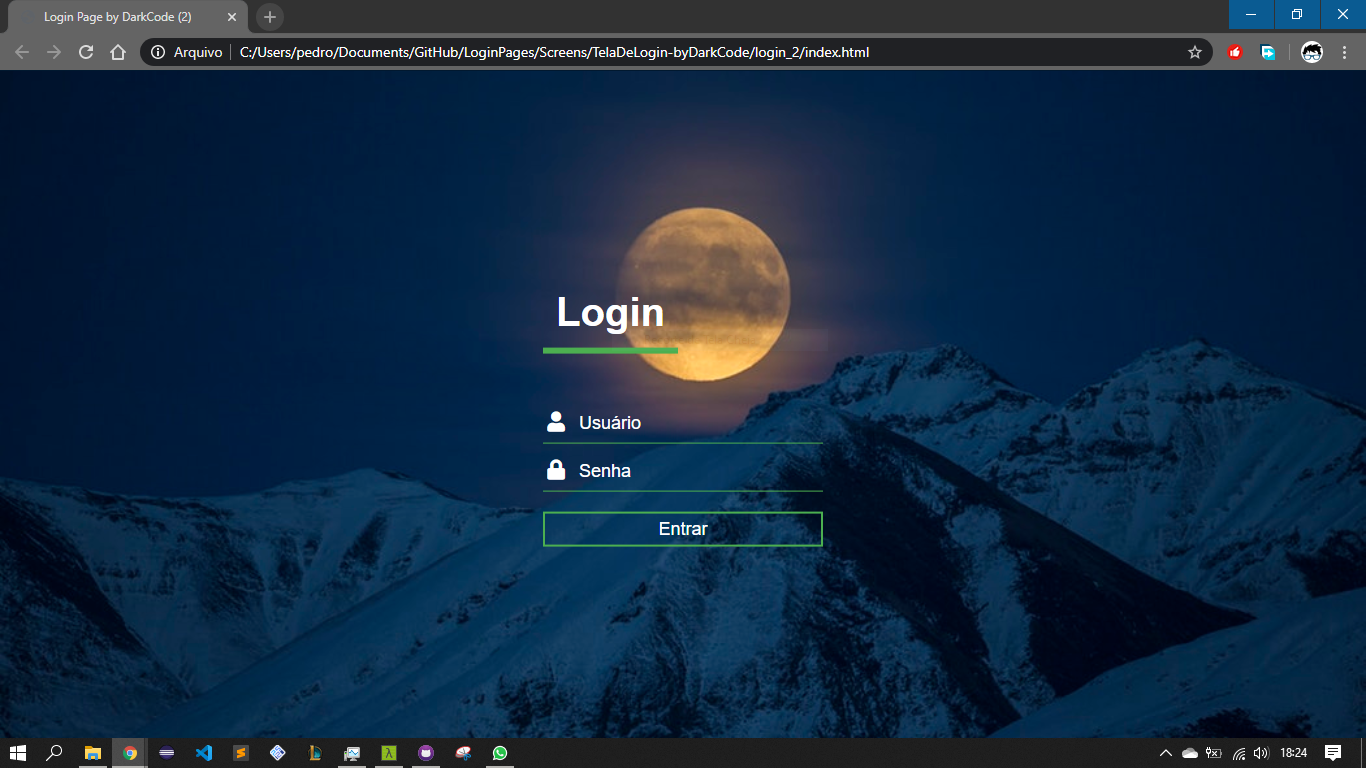
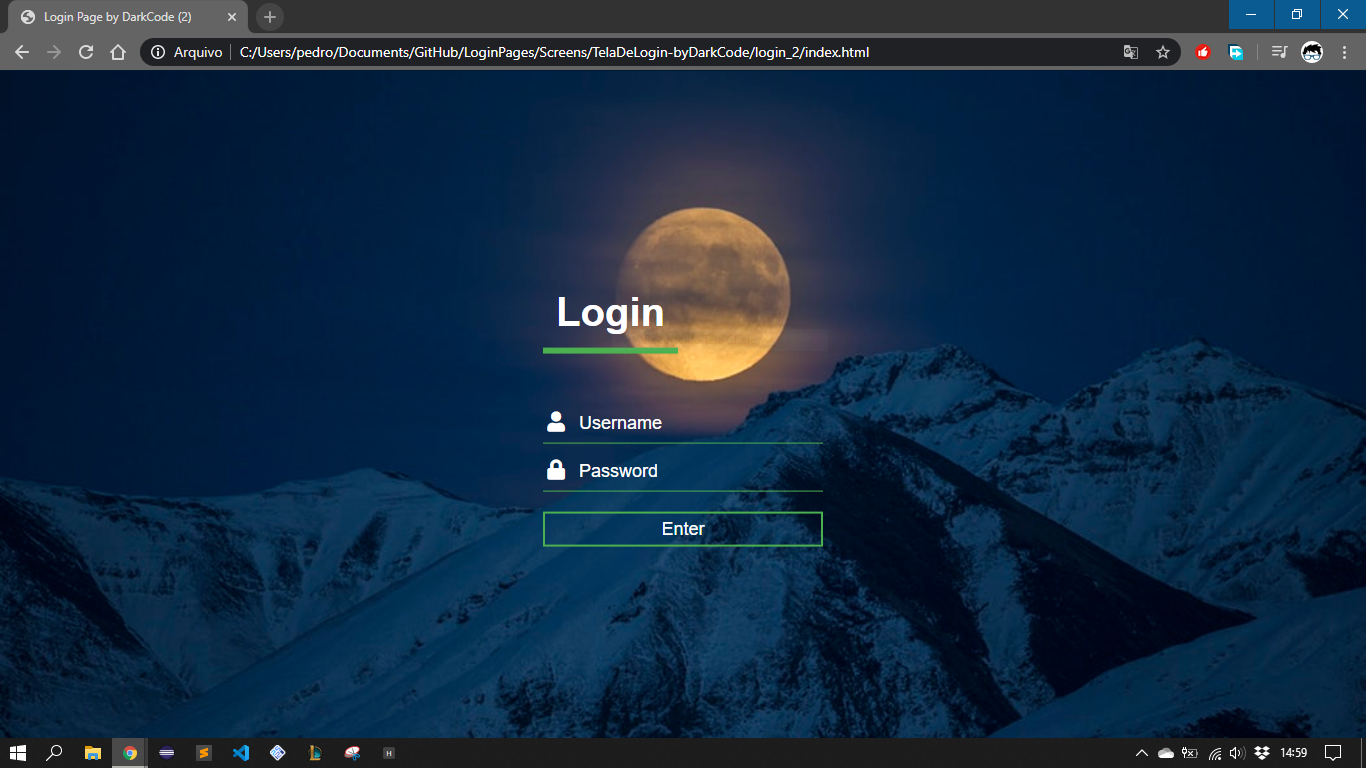
Updated all pages for English

diff --git a/Screens/telaDeLogin-byTrueCode/index.html b/Screens/telaDeLogin-byTrueCode/index.html
@@ -1,12 +1,12 @@
 <!DOCTYPE html>
-<html lang="pt">
+<html lang="en">
 <head>
     <meta charset="UTF-8">
     <meta name="viewport" content="width=device-width, initial-scale=1.0">
     <link rel="stylesheet" type="text/css" href="css/style.css">
     <link href="https://fonts.googleapis.com/css?family=Poppins:600&display=swap" rel="stylesheet">
     <script src="https://kit.fontawesome.com/a81368914c.js"></script>
-    <title>Fomulário de Login Animada</title>
+    <title>Animated Login Form</title>
 </head>
 <body>
     <img class="wave" src="img/wave.png">
@@ -17,13 +17,13 @@
         <div class="login-container">
             <form action="index.html">
                 <img class="avatar" src="img/avatar.svg">
-                <h2>Bem Vindo!</h2>
+                <h2>Welcome!</h2>
                 <div class="input-div one">
                     <div class="i">
                         <i class="fas fa-user"></i>
                     </div>
                     <div>
-                        <h5>Usuário</h5>
+                        <h5>Username</h5>
                         <input class="input" type="text">
                     </div>
                 </div>
@@ -32,11 +32,11 @@
                         <i class="fas fa-lock"></i>
                     </div>
                     <div>
-                        <h5>Senha</h5>
+                        <h5>Password</h5>
                         <input class="input" type="password">
                     </div>
                 </div>
-                <a href="#">Esqueceu a senha?</a>
+                <a href="#">Lost your password?</a>
                 <input type="submit" class="btn" value="Login">
             </form>
         </div>

diff --git a/Screens/TelaDeLogin-byEasyTutoriais/index.html b/Screens/TelaDeLogin-byEasyTutoriais/index.html
@@ -1,5 +1,5 @@
 <!DOCTYPE html>
-<html lang="pt-br">
+<html lang="en">
 <head>
     <meta charset="UTF-8">
     <meta name="viewport" content="width=device-width, initial-scale=1.0">
@@ -11,13 +11,13 @@
         <img src="img/avatar.png" class="avatar">
         <h1>Login</h1>
         <form action="index.html">
-            <p>Usuário</p>
-            <input type="text" name="" placeholder="Entre com o usuário">
-            <p>Senha</p>
-            <input type="password" name="" placeholder="Entre com a senha">
+            <p>Username</p>
+            <input type="text" name="" placeholder="Enter username">
+            <p>Password</p>
+            <input type="password" name="" placeholder="Enter password">
             <input type="submit" name="" value="Login">
-            <a href="#">Esqueceu sua senha?</a><br>
-            <a href="#">Não tem uma conta?</a>
+            <a href="#">Last your password?</a><br>
+            <a href="#">Don't have an account?</a>
         </form>
     </div>
 </body>

diff --git a/Screens/TelaDeLogin-byDarkCode/login_1/index.html b/Screens/TelaDeLogin-byDarkCode/login_1/index.html
@@ -1,17 +1,17 @@
 <!DOCTYPE html>
-<html lang="pt">
+<html lang="en">
 <head>
     <meta charset="UTF-8">
     <meta name="viewport" content="width=device-width, initial-scale=1.0">
-    <title>Formulário de Login Animado</title>
+    <title>Animated Login Form</title>
     <link rel="stylesheet" href="css/style.css">
 </head>
 <body>
     <form class="box" action="index.html" method="POST">
         <h1>Login</h1>
-        <input type="text" name="" placeholder="Usuário">
-        <input type="password" name="" placeholder="Senha">
-        <input type="submit" name="" value="Entrar">
+        <input type="text" name="" placeholder="Username">
+        <input type="password" name="" placeholder="Password">
+        <input type="submit" name="" value="Enter">
     </form>
 </body>
 </html>

diff --git a/Screens/TelaDeLogin-byDarkCode/login_2/index.html b/Screens/TelaDeLogin-byDarkCode/login_2/index.html
@@ -1,5 +1,5 @@
 <!DOCTYPE html>
-<html lang="pt">
+<html lang="en">
 <head>
     <meta charset="UTF-8">
     <meta name="viewport" content="width=device-width, initial-scale=1.0">
@@ -12,13 +12,13 @@
         <h1>Login</h1>
         <div class="textbox">
             <i class="fas fa-user"></i>
-            <input type="text" placeholder="Usuário">
+            <input type="text" placeholder="Username">
         </div>
         <div class="textbox">
             <i class="fas fa-lock"></i>
-            <input type="password" placeholder="Senha">
+            <input type="password" placeholder="Password">
         </div>
-        <input class="btn" type="button" name="" value="Entrar">
+        <input class="btn" type="button" name="" value="Enter">
     </div>
 </body>
 </html>
